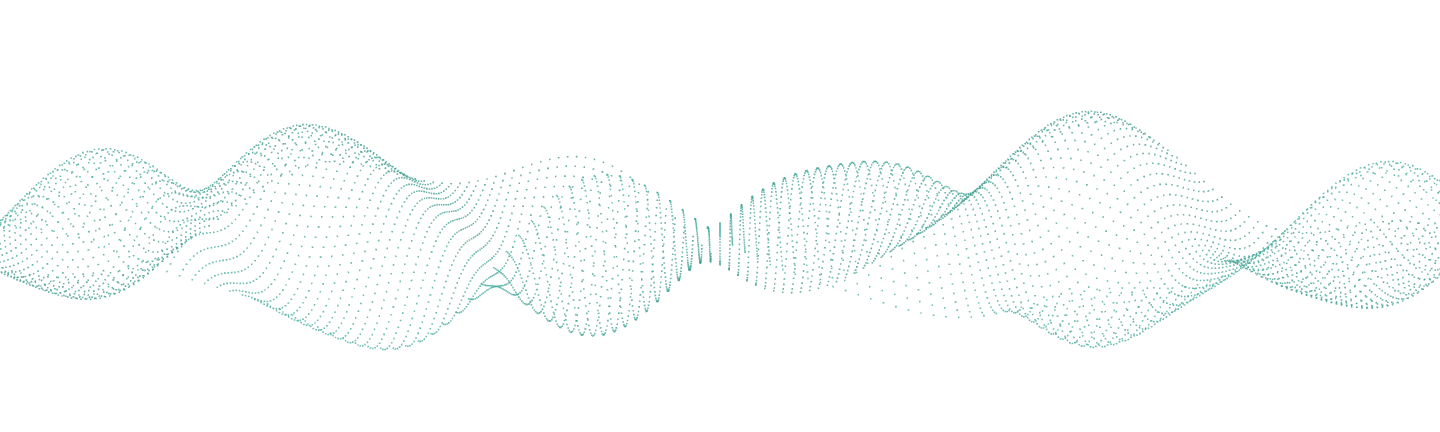
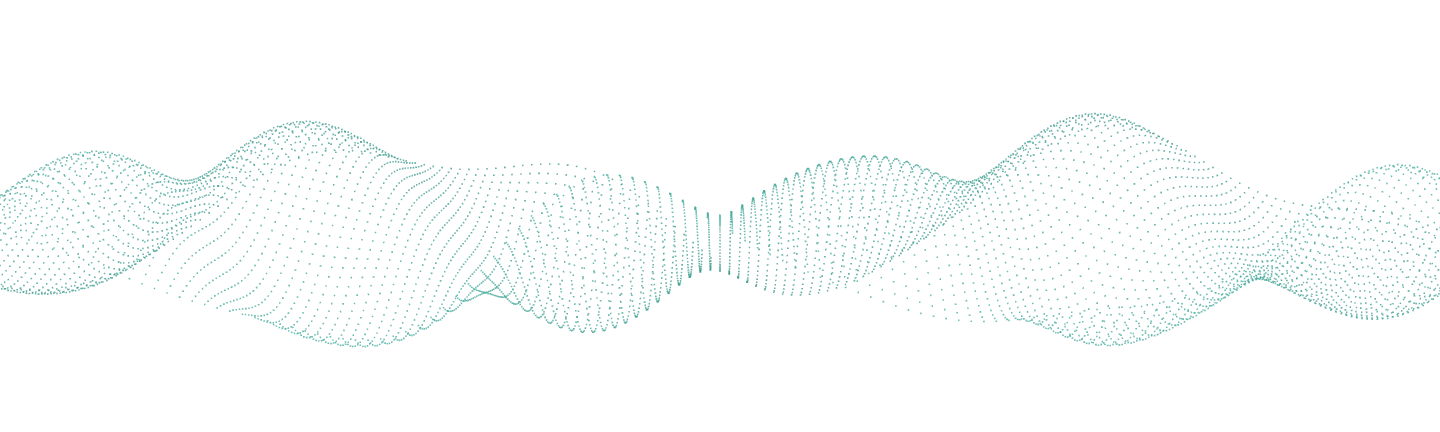
Suaviza as ondulacoes menores da malha

Changed region(s): [[0.0, 0.2407, 1.0, 0.8125], [0.375, 0.3611, 0.4062, 0.3912]]

diff --git a/src/scroll-mesh.js b/src/scroll-mesh.js
@@ -13,9 +13,9 @@ function createMesh(THREE) {
     const spread = .92 + .37 * depth;
     for (let column = 0; column <= columns; column++) {
       const x = (column / columns - .5) * 9.2 * spread;
-      const crest = .35 * Math.sin(1.65 * x + 1.9 * z)
-        + .16 * Math.sin(2.8 * x - 2.5 * z)
-        + .07 * Math.cos(4.2 * x + 3 * z);
+      const crest = .39 * Math.sin(1.55 * x + 1.9 * z)
+        + .13 * Math.sin(2.8 * x - 2.5 * z)
+        + .045 * Math.cos(4.2 * x + 3 * z);
       vertices.push(x, crest - .12, z);
       const shade = .75 + .25 * depth;
       shades.push(shade, shade, shade);
